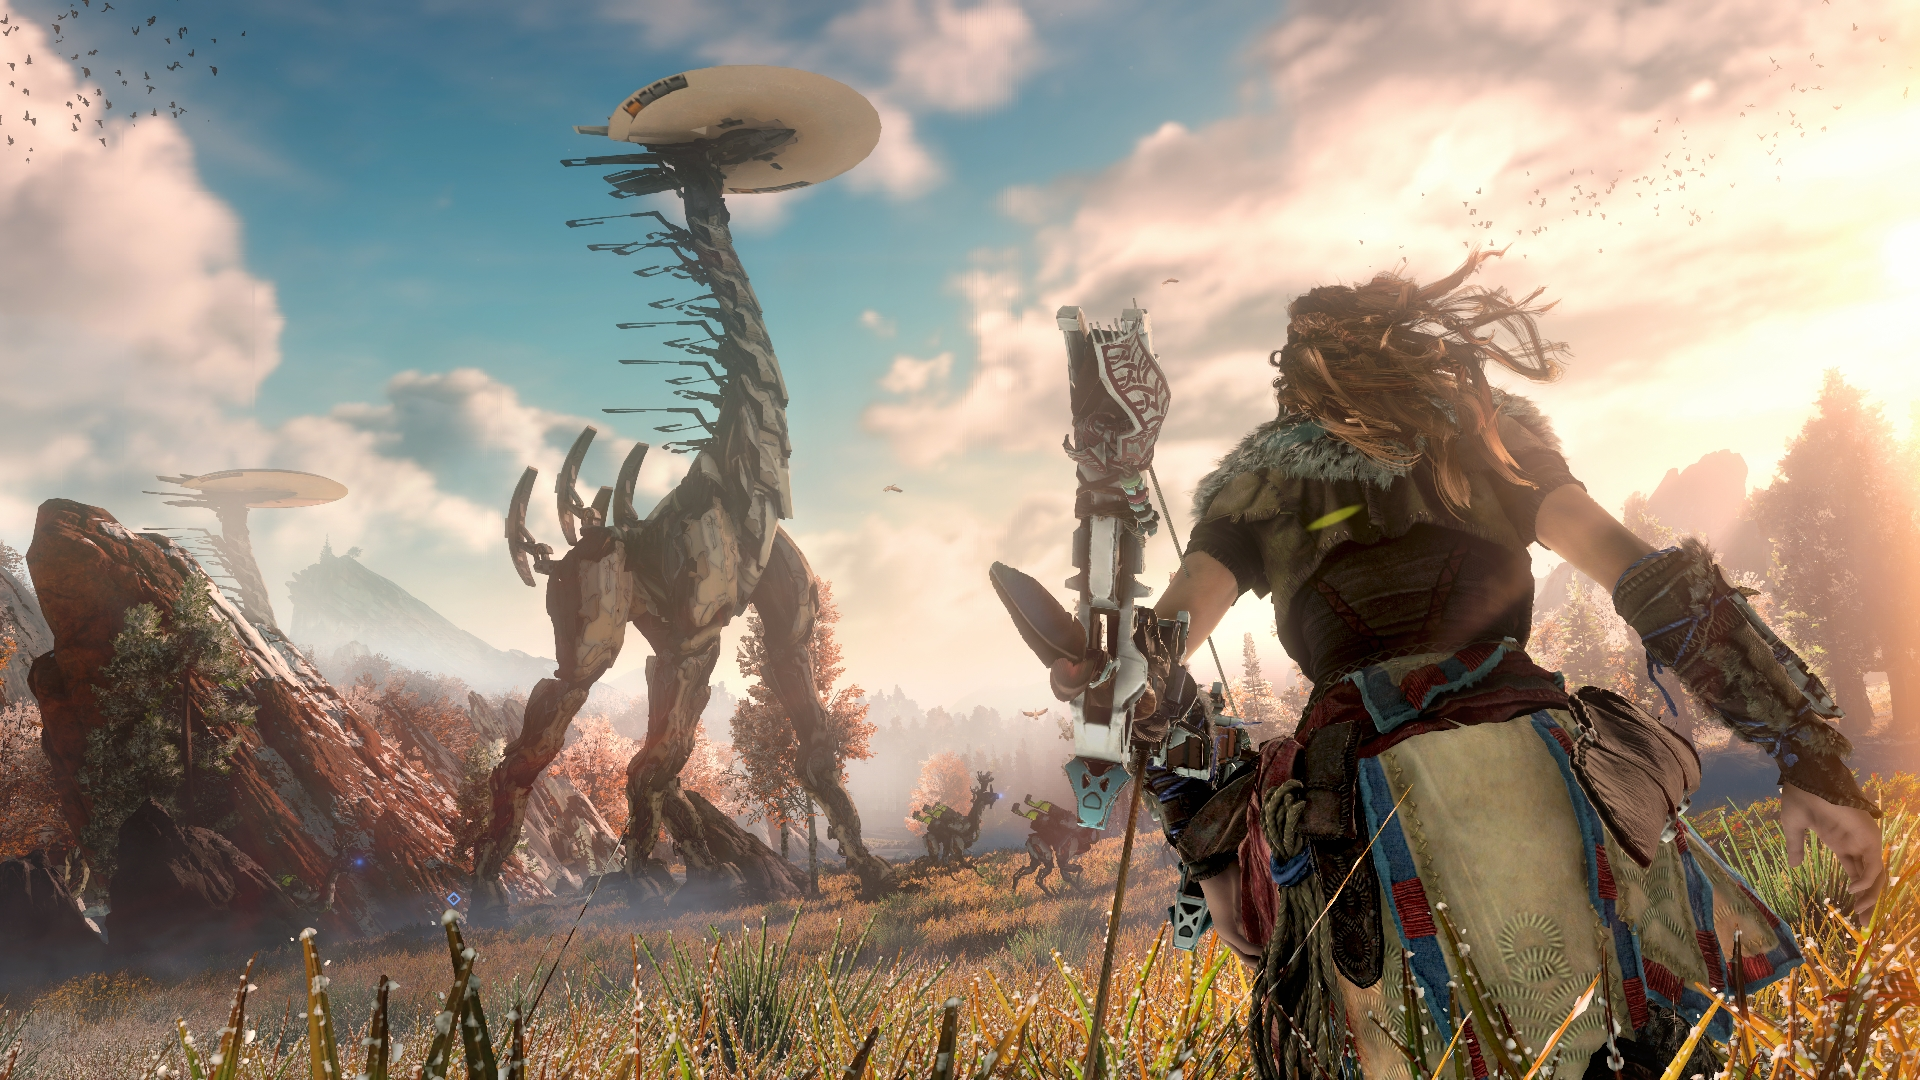
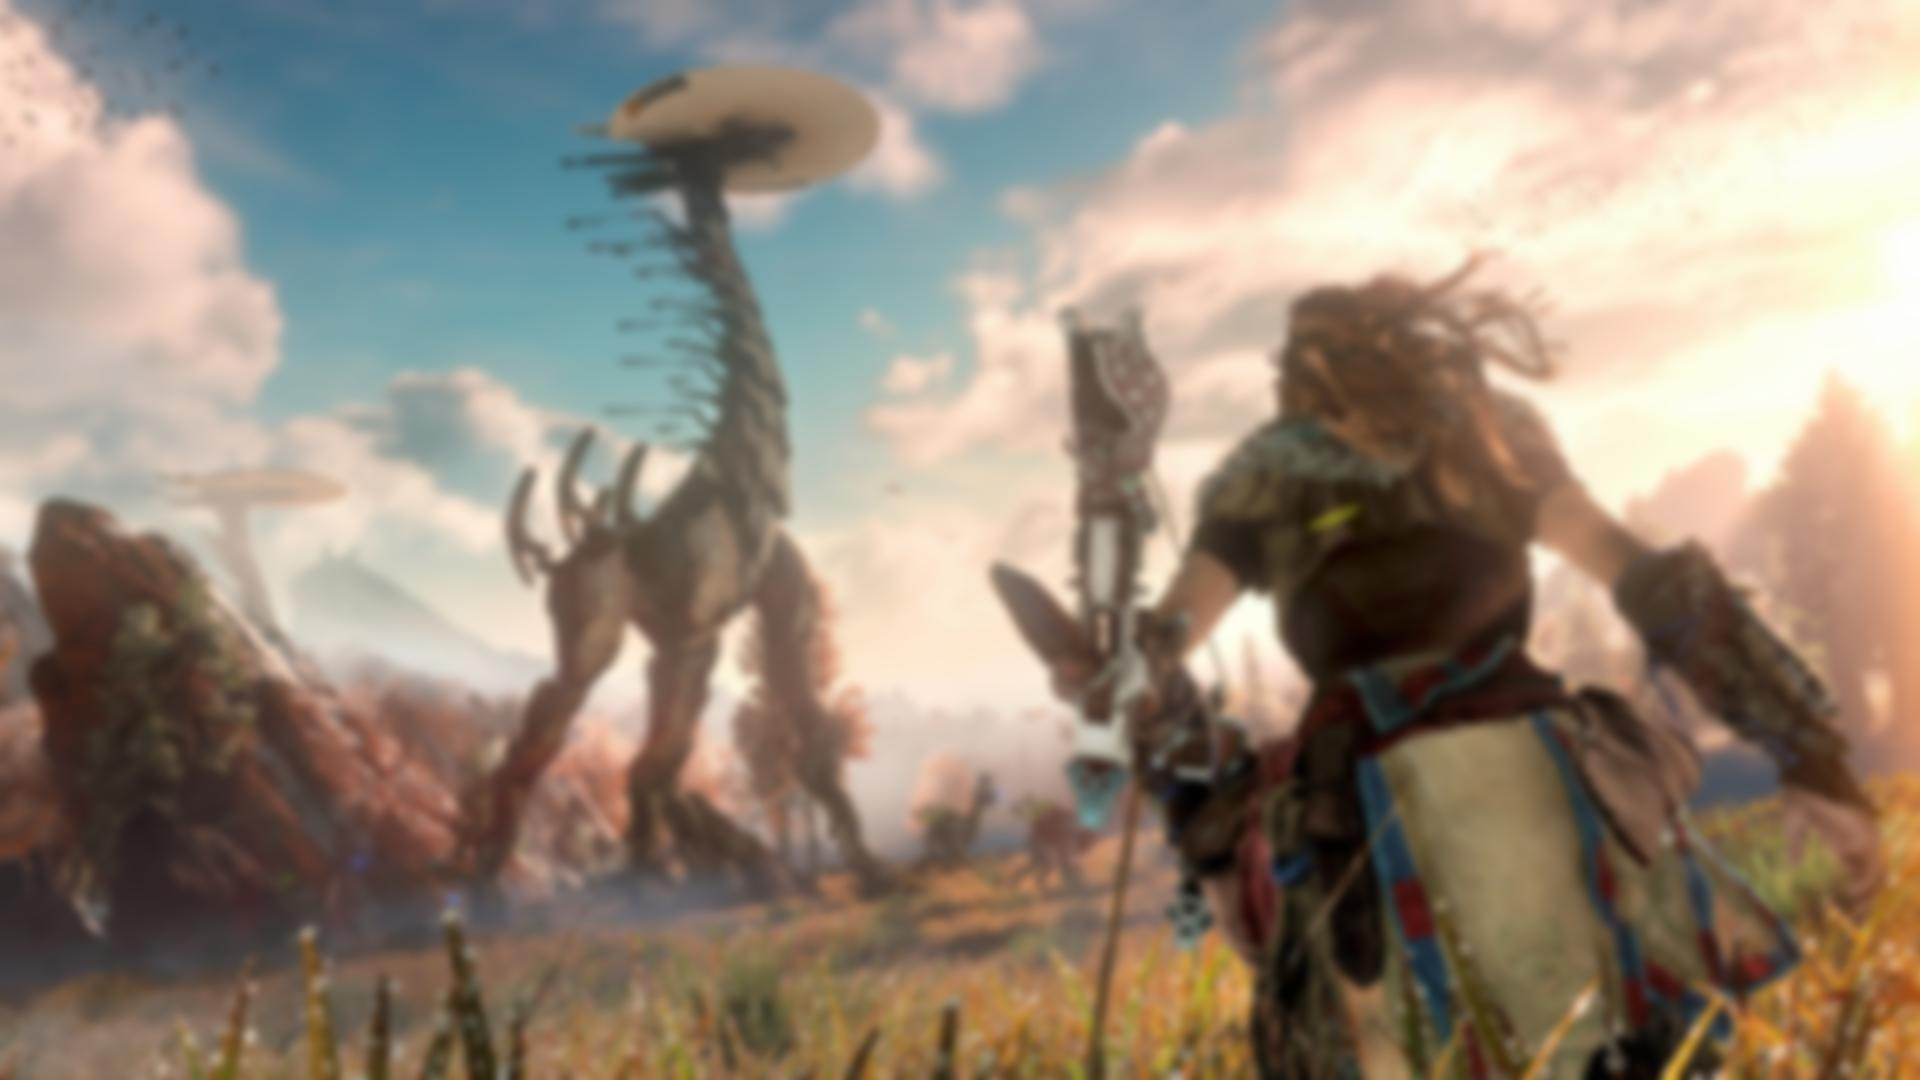
Blurred images

diff --git a/utils/blur.js b/utils/blur.js
@@ -13,4 +13,4 @@ const blurImages = () => {
     })
 }
 
-module.exports = blurImages
+blurImages()
